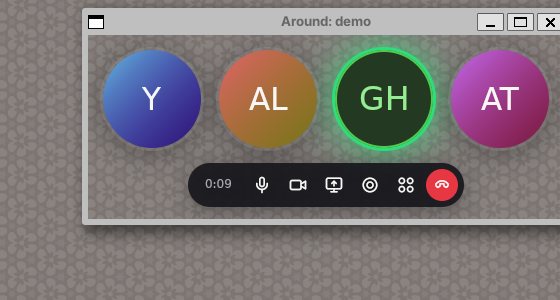
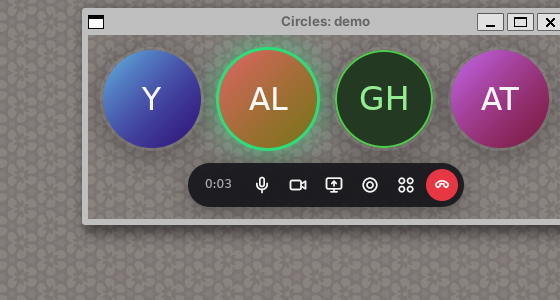
Rename the app to Circles
Claude-Session: https://claude.ai/code/session_01N2ijKiJ3x7gDML1BvKNfyn

Changed region(s): [[0.3643, 0.12, 0.8196, 0.54], [0.4857, 0.06, 0.6679, 0.09], [0.3946, 0.6, 0.425, 0.63]]

diff --git a/src/ui/lobby.rs b/src/ui/lobby.rs
@@ -22,10 +22,10 @@ pub fn open(cx: &mut App) -> Result<WindowHandle<Lobby>> {
     let options = WindowOptions {
         window_bounds: Some(WindowBounds::Windowed(bounds)),
         titlebar: Some(TitlebarOptions {
-            title: Some("Around".into()),
+            title: Some("Circles".into()),
             ..Default::default()
         }),
-        app_id: Some("around".into()),
+        app_id: Some("circles".into()),
         ..Default::default()
     };
     cx.open_window(options, |_, cx| {
@@ -123,7 +123,7 @@ impl Render for Lobby {
                 div()
                     .text_size(px(28.))
                     .font_weight(FontWeight::BOLD)
-                    .child("Around"),
+                    .child("Circles"),
             )
             .child(
                 div()

diff --git a/src/ui/call_window.rs b/src/ui/call_window.rs
@@ -76,7 +76,7 @@ pub fn open(
         is_minimizable: false,
         window_background: WindowBackgroundAppearance::Transparent,
         window_decorations: Some(WindowDecorations::Client),
-        app_id: Some("around".into()),
+        app_id: Some("circles".into()),
         ..Default::default()
     };
     cx.open_window(options, |window, cx| {
@@ -93,7 +93,7 @@ impl CallWindow {
     ) -> Self {
         let focus = cx.focus_handle();
         window.focus(&focus);
-        window.set_window_title(&format!("Around: {}", call.room));
+        window.set_window_title(&format!("Circles: {}", call.room));
 
         let ticker = cx.spawn_in(window, async move |this, cx| {
             loop {

diff --git a/src/ui/theme.rs b/src/ui/theme.rs
@@ -1,4 +1,4 @@
-//! Colors and shared styles. Around uses a dark, glassy look on top of whatever
+//! Colors and shared styles. Circles uses a dark, glassy look on top of whatever
 //! is behind the floating window.
 
 use gpui::{BoxShadow, Hsla, hsla, point, px};

diff --git a/docs/PLAN.md b/docs/PLAN.md
@@ -1,8 +1,8 @@
-# Project plan
+# Circles: project plan
 
 ## Goal
 
-Make a desktop video call app that works like Around:
+Make Circles, a desktop video call app that works like Around:
 
 - Small round video bubbles that float over other apps.
 - Compact controls that do not take space from your work.
@@ -59,9 +59,9 @@ lets us test the UI with the simulated room.
    and draw it with `img()` clipped to a circle. On macOS, use GPUI `surface()`
    with the `CVPixelBuffer` for less copying.
 6. Use LiveKit audio levels for the speaking ring.
-7. Room links: `around://join/<room>` and a web page that opens the app.
+7. Room links: `circles://join/<room>` and a web page that opens the app.
 
-### Phase 3: Around features
+### Phase 3: Features from Around
 
 - Screen share in its own window, with a picker for screen or window.
 - Auto-framing: crop the camera to the face so it fits the circle.

diff --git a/README.md b/README.md
@@ -1,4 +1,4 @@
-# Around (GPUI)
+# Circles
 
 A video call app in the style of [Around](https://www.around.co): small round
 video bubbles that float over your work, with compact controls. The desktop UI
